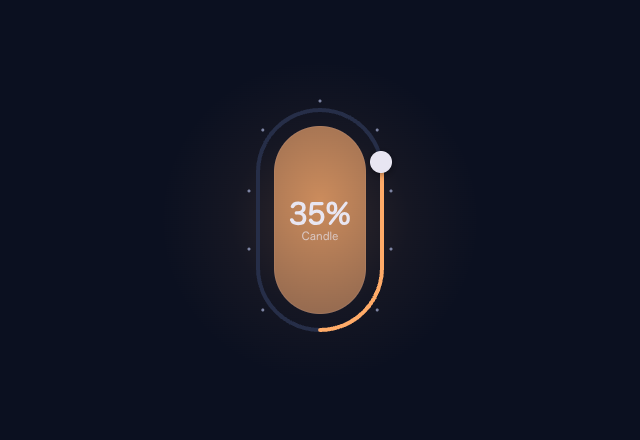
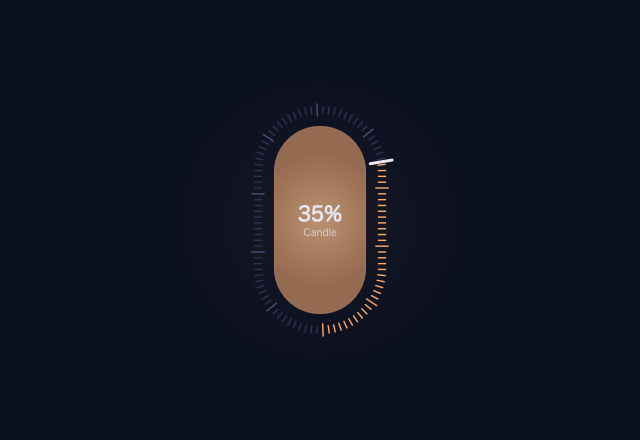
Week 04: night lamp ringed by ticks, breathing glow, smaller type, no outer dots
Claude-Session: https://claude.ai/code/session_013PaiRT9mB3em9jBr45ZJeZ

Changed region(s): [[0.375, 0.2364, 0.625, 0.7682], [0.4062, 0.65, 0.4375, 0.7091], [0.4375, 0.7091, 0.4688, 0.7386]]

diff --git a/week-04/week-04-sleep-lamp.html b/week-04/week-04-sleep-lamp.html
@@ -7,38 +7,38 @@
   <link rel="icon" href="../shared/favicon.svg" type="image/svg+xml" />
   <link rel="stylesheet" href="week-04-sleep.css?v=1" />
   <style>
-  /* Night lamp slider, continuous. A capsule lamp, and the slider is a track that wraps all the way round it.
-     Run the knob round the capsule from the bottom, up the right side, over the top and down the left:
-     the further round, the brighter the lamp, warmer when low and paler when bright. */
+  /* Night lamp slider, continuous. A capsule lamp, and the slider is a ring of fine ticks that wraps all the way round it.
+     Run the marker round the capsule from the bottom, up the right side, over the top and down the left:
+     the ticks light behind it, and the lamp breathes brighter, warmer when low and paler when high. */
   :root {
     --lamp-w: 92px; --lamp-h: 188px;          /* the capsule */
-    --gap: 16px;                              /* capsule to track */
-    --track: 4px; --knob: 22px; --knob-held: 28px;
-    --dot: 3px;
-    --glow-size: 320px;
+    --gap: 16px;                              /* capsule to the ring of ticks */
+    --ticks: 100; --tick-w: 1.4px; --tick: 7px; --tick-major: 12px;
+    --marker-w: 3px; --marker: 22px; --marker-held: 28px;
+    --glow-size: 320px; --breath: 3.6s;
     --warm-low: #ff8a3d; --warm-high: #ffe7b8;
-    --glass: #161d33;
+    --glass: #161d33; --tick-off: #2b3350; --tick-off-major: #46507a;
+    --num-size: 20px; --num-line: 24px; --mood-size: 10px;
   }
   .lamp { position: relative; width: 160px; height: 256px; }
-  .room { position: absolute; left: 50%; top: 50%; width: var(--glow-size); height: var(--glow-size); margin: calc(var(--glow-size) / -2) 0 0 calc(var(--glow-size) / -2); border-radius: 50%; pointer-events: none; }
+  .room { position: absolute; left: 50%; top: 50%; width: var(--glow-size); height: var(--glow-size); margin: calc(var(--glow-size) / -2) 0 0 calc(var(--glow-size) / -2); border-radius: 50%; pointer-events: none; animation: breathe var(--breath) ease-in-out infinite; }
   .capsule { position: absolute; left: 50%; top: 50%; width: var(--lamp-w); height: var(--lamp-h); margin: calc(var(--lamp-h) / -2) 0 0 calc(var(--lamp-w) / -2); border-radius: calc(var(--lamp-w) / 2); background: var(--glass); box-shadow: inset 0 0 0 1px var(--line); overflow: hidden; pointer-events: none; }
   .light { position: absolute; inset: 0; border-radius: inherit; }
+  /* the glow inside: a soft core that breathes, slowly swelling and settling */
+  .core { position: absolute; left: -30%; right: -30%; top: 10%; bottom: 10%; border-radius: 50%; animation: breathe var(--breath) ease-in-out infinite; }
+  @keyframes breathe { 0%, 100% { opacity: .55; transform: scale(.9); } 50% { opacity: 1; transform: scale(1.06); } }
   .read { position: absolute; inset: 0; display: grid; place-content: center; text-align: center; transition: color .25s; }
-  .read b { font: 600 var(--big-size)/var(--big-line) var(--round); font-variant-numeric: tabular-nums; transition: transform .15s; }
-  .read span { font: 500 var(--label-size)/var(--label-line) var(--round); opacity: .7; }
+  .read b { font: 600 var(--num-size)/var(--num-line) var(--round); font-variant-numeric: tabular-nums; transition: transform .15s; }
+  .read span { font: 500 var(--mood-size)/14px var(--round); opacity: .7; }
   svg.ring { position: absolute; inset: 0; width: 100%; height: 100%; overflow: visible; cursor: pointer; }
-  .ring .track { fill: none; stroke: var(--line); stroke-width: var(--track); stroke-linecap: round; }
-  .ring .fill { fill: none; stroke-width: var(--track); stroke-linecap: round; }
-  .lamp.ready .ring .fill { transition: stroke-dashoffset var(--slow) var(--ease-out); }
-  .ring .ghost { fill: none; stroke: var(--ink); stroke-width: 1.5; stroke-linecap: round; opacity: 0; transition: opacity .12s; }
+  .ring .tk { stroke: var(--tick-off); stroke-width: var(--tick-w); stroke-linecap: round; transition: stroke .1s; }
+  .ring .tk.major { stroke: var(--tick-off-major); }
+  .ring .tk.pre { stroke: #6a7398; }
+  .ring .marker { stroke: var(--ink); stroke-width: var(--marker-w); stroke-linecap: round; transition: stroke .15s; }
+  .ring .hdot { fill: var(--ink); opacity: 0; transition: opacity .12s; }
   .ring .hit { fill: none; stroke: transparent; stroke-width: 30px; pointer-events: stroke; }
-  .ring .dot { fill: var(--mute); }
-  .knob { position: absolute; width: var(--knob); height: var(--knob); margin: calc(var(--knob) / -2) 0 0 calc(var(--knob) / -2); border-radius: 50%; background: var(--ink); box-shadow: 0 2px 8px rgba(0,0,0,.45); pointer-events: none; transition: width .15s, height .15s, margin .15s, background .15s, box-shadow .15s; }
-  .peek { position: absolute; transform: translate(-50%, -50%); padding: 3px 6px; border-radius: 6px; background: var(--panel); box-shadow: inset 0 0 0 1px var(--line); font: 600 10px/1 var(--mono); color: var(--ink); opacity: 0; transition: opacity .12s; pointer-events: none; white-space: nowrap; }
-  .lamp.is-hover .ghost, .lamp.is-hover .peek { opacity: .85; }
-  .lamp.is-hover .knob { box-shadow: 0 0 0 6px rgba(232,230,242,.08), 0 2px 8px rgba(0,0,0,.45); }
-  .lamp.is-pressed .knob, .lamp.is-dragging .knob { width: var(--knob-held); height: var(--knob-held); margin: calc(var(--knob-held) / -2) 0 0 calc(var(--knob-held) / -2); background: var(--glow); box-shadow: 0 0 0 8px rgba(255,184,103,.14), 0 0 20px rgba(255,184,103,.4); }
-  .lamp.is-dragging .fill { transition: none; }
+  .lamp.is-hover .hdot { opacity: .9; }
+  .lamp.is-pressed .marker, .lamp.is-dragging .marker { stroke: var(--glow); filter: drop-shadow(0 0 4px rgba(255,184,103,.8)); }
   .lamp.is-pressed .read b, .lamp.is-dragging .read b { transform: scale(1.08); }
   </style>
 </head>
@@ -46,35 +46,31 @@
   <main class="stage">
     <section class="lamp" role="slider" tabindex="0" aria-label="Night lamp brightness">
       <div class="room"></div>
-      <div class="capsule"><div class="light"></div><div class="read"><b></b><span></span></div></div>
-      <svg class="ring" viewBox="0 0 160 256"><path class="track"/><path class="fill"/><path class="ghost"/><g class="dots"></g><path class="hit"/></svg>
-      <div class="knob"></div>
-      <span class="peek"></span>
+      <div class="capsule"><div class="light"></div><div class="core"></div><div class="read"><b></b><span></span></div></div>
+      <svg class="ring" viewBox="0 0 160 256"><path class="path" fill="none" stroke="none"/><g class="ticks"></g><line class="marker"/><circle class="hdot" r="2.4"/><path class="hit"/></svg>
     </section>
   </main>
 
   <section class="spec" aria-labelledby="spec-title">
     <h2 id="spec-title">Spec</h2>
-    <p>Read from the CSS this page runs on. Continuous, 0 to 100. The track wraps the whole capsule: it starts at the bottom, climbs the right side, crosses the top and comes down the left, so one trip round is off to full. The level and a mood word read inside the lamp, always on screen, and the lamp itself shows it too: warmer and dimmer when low, paler and brighter when high, glowing into the room.</p>
+    <p>Read from the CSS this page runs on. Continuous, 0 to 100. A ring of a hundred fine ticks wraps the whole capsule, one per percent: it starts at the bottom, climbs the right side, crosses the top and comes down the left. The ticks light in the lamp's colour up to the level, and a long marker stands at it. The level and a mood word read inside the lamp, always on screen, and the lamp shows it too, breathing a soft glow: warmer and dimmer when low, paler and brighter when high.</p>
 
-    <h3>Lamp and track</h3>
+    <h3>Lamp and ticks</h3>
     <table>
       <tr><td>Capsule</td><td data-var="--lamp-w,--lamp-h" data-join=" × " data-after=", fully round ends, 1px line ring"></td></tr>
-      <tr><td>Capsule to track</td><td data-var="--gap" data-after="; the track is a 124 × 220 stadium round it"></td></tr>
-      <tr><td>Track</td><td data-var="--track" data-after=" stroke, round caps; the filled part takes the lamp's colour"></td></tr>
+      <tr><td>Capsule to ticks</td><td data-var="--gap" data-after="; the ticks stand on a 124 × 220 stadium round it"></td></tr>
+      <tr><td>Ticks</td><td data-var="--ticks" data-after=", one per percent, square to the track"></td></tr>
+      <tr><td>Tick</td><td data-var="--tick,--tick-w" data-join=" long, " data-after=" wide, round caps; every tenth 12px"></td></tr>
+      <tr><td>Marker</td><td data-var="--marker,--marker-w" data-join=" long, " data-after=" wide; 28px while held"></td></tr>
       <tr><td>Hit area</td><td>30px along the track</td></tr>
-      <tr><td>Knob</td><td data-var="--knob" data-after=" circle"></td></tr>
-      <tr><td>Knob, held</td><td data-var="--knob-held" data-after=", warm, 8px halo"></td></tr>
-      <tr><td>Marks</td><td data-var="--dot" data-after=" dots every 10%, 9px outside the track"></td></tr>
+      <tr><td>Glow</td><td data-var="--breath" data-after=" breath: the core swells from 90% to 106% and back, opacity 55% to 100%; the room glow breathes with it"></td></tr>
       <tr><td>Room glow</td><td data-var="--glow-size" data-after=" circle; its strength follows the level"></td></tr>
-      <tr><td>Settle on tap</td><td data-var="--slow" data-after=", ease out; no lag while dragging"></td></tr>
     </table>
 
     <h3>Type</h3>
     <table>
-      <tr><td>Level</td><td data-var="--big-size,--big-line" data-after=", rounded 600, centred in the lamp"></td></tr>
-      <tr><td>Mood word</td><td data-var="--label-size,--label-line" data-after=", rounded 500 at 70%: Off, Ember, Candle, Reading, Bright"></td></tr>
-      <tr><td>Hover chip</td><td>Mono 600 10px, 3px × 6px padding, 6px corner, on the track under the pointer</td></tr>
+      <tr><td>Level</td><td data-var="--num-size,--num-line" data-after=", rounded 600, centred in the lamp"></td></tr>
+      <tr><td>Mood word</td><td data-var="--mood-size" data-after=", rounded 500 at 70%: Off, Ember, Candle, Reading, Bright"></td></tr>
     </table>
 
     <h3>Colour</h3>
@@ -82,16 +78,18 @@
       <tr><td>Lamp, off</td><td data-var="--glass" data-kind="color"></td></tr>
       <tr><td>Light, low</td><td data-var="--warm-low" data-kind="color"></td></tr>
       <tr><td>Light, high</td><td data-var="--warm-high" data-kind="color"></td></tr>
-      <tr><td>Track</td><td data-var="--line" data-kind="color"></td></tr>
+      <tr><td>Ticks, unlit</td><td data-var="--tick-off" data-kind="color"></td></tr>
+      <tr><td>Every tenth, unlit</td><td data-var="--tick-off-major" data-kind="color"></td></tr>
+      <tr><td>Ticks, lit</td><td>The lamp's own colour at that level</td></tr>
       <tr><td>Type in the lamp</td><td>Moonlight while the lamp is dim, night navy once it is bright</td></tr>
     </table>
 
     <h3>States</h3>
     <table>
-      <tr><td>Hover</td><td>A soft halo on the knob; a thin moonlight line runs along the track to the pointer and a chip there reads the level it would set. The lamp stays</td></tr>
-      <tr><td>Pressed</td><td>The knob grows to 28px and turns warm with a halo; the level grows 1.08</td></tr>
-      <tr><td>Drag</td><td>Round the capsule; the lamp, its colour, the room glow and the number follow with no lag, and the knob holds at off and full instead of wrapping</td></tr>
-      <tr><td>Tap</td><td>Sets the level at the tapped point on the track</td></tr>
+      <tr><td>Hover</td><td>A small moonlight dot stands outside the ring at the pointer, and the ticks between the marker and it brighten, a preview. The lamp stays</td></tr>
+      <tr><td>Pressed</td><td>The marker grows to 28px and turns warm with a glow; the level grows 1.08</td></tr>
+      <tr><td>Drag</td><td>Round the capsule; ticks, lamp, room glow and number follow with no lag, and the marker holds at off and full instead of wrapping</td></tr>
+      <tr><td>Tap</td><td>Sets the level at the tapped tick</td></tr>
       <tr><td>Keyboard</td><td>Arrows 5; Page Up and Down 25; Home and End off and full</td></tr>
     </table>
   </section>
@@ -102,59 +100,54 @@
   // the track: a stadium round the capsule, from the bottom centre, up the right, over the top, down the left
   const CX = 80, CY = 128, W = 124, H = 220, R = W / 2, yTop = CY - H / 2 + R, yBot = CY + H / 2 - R;
   const D = `M${CX} ${CY + H / 2} A${R} ${R} 0 0 0 ${CX + R} ${yBot} L${CX + R} ${yTop} A${R} ${R} 0 0 0 ${CX - R} ${yTop} L${CX - R} ${yBot} A${R} ${R} 0 0 0 ${CX} ${CY + H / 2}`;
-  const lamp = document.querySelector('.lamp'), svg = lamp.querySelector('svg');
-  ['track', 'fill', 'ghost', 'hit'].forEach(c => svg.querySelector('.' + c).setAttribute('d', D));
-  const path = svg.querySelector('.track'), fill = svg.querySelector('.fill'), ghost = svg.querySelector('.ghost'), L = path.getTotalLength();
-  fill.style.strokeDasharray = `${L} ${L}`;
-  // sample the track once, for drawing marks and for finding the point under the pointer
+  const lamp = document.querySelector('.lamp'), svg = lamp.querySelector('svg'), NS = 'http://www.w3.org/2000/svg';
+  ['path', 'hit'].forEach(c => svg.querySelector('.' + c).setAttribute('d', D));
+  const path = svg.querySelector('.path'), L = path.getTotalLength();
+  // sample the track once: points for finding the pointer, and the outward normal at each
   const N = 400, SAMPLES = Array.from({ length: N + 1 }, (_, i) => { const p = path.getPointAtLength(L * i / N); return [p.x, p.y]; });
-  const at = v => SAMPLES[Math.round(v / 100 * N)];
-  const dots = svg.querySelector('.dots');
-  for (let v = 10; v < 100; v += 10) {
-    // push each mark 9 units outward, square to the track
-    const [x, y] = at(v), cy = y < yTop ? yTop : y > yBot ? yBot : y, nx = x - CX, ny = y - cy, k = 9 / Math.hypot(nx, ny), ox = nx * k, oy = ny * k;
-    dots.insertAdjacentHTML('beforeend', `<circle class="dot" cx="${x + ox}" cy="${y + oy}" r="1.5"/>`);
+  const normal = (x, y) => { const cy = y < yTop ? yTop : y > yBot ? yBot : y, nx = x - CX, ny = y - cy, k = Math.hypot(nx, ny) || 1; return [nx / k, ny / k]; };
+  const at = v => SAMPLES[Math.round(Math.min(100, Math.max(0, v)) / 100 * N)];
+  const seg = (el, v, inner, outer) => { const [x, y] = at(v), [nx, ny] = normal(x, y); el.setAttribute('x1', x - nx * inner); el.setAttribute('y1', y - ny * inner); el.setAttribute('x2', x + nx * outer); el.setAttribute('y2', y + ny * outer); };
+  const TICKS = 100, ticks = [];
+  for (let i = 0; i < TICKS; i++) {
+    const t = document.createElementNS(NS, 'line'), major = i % 10 === 0, len = major ? 12 : 7;
+    seg(t, i + .5, len / 2, len / 2); t.setAttribute('class', 'tk' + (major ? ' major' : ''));
+    svg.querySelector('.ticks').append(t); ticks.push(t);
   }
+  const marker = svg.querySelector('.marker'), hdot = svg.querySelector('.hdot');
 
-  const knob = lamp.querySelector('.knob'), peek = lamp.querySelector('.peek'), room = lamp.querySelector('.room');
-  const light = lamp.querySelector('.light'), read = lamp.querySelector('.read');
+  const room = lamp.querySelector('.room'), light = lamp.querySelector('.light'), core = lamp.querySelector('.core'), read = lamp.querySelector('.read');
   const hex = h => [1, 3, 5].map(i => parseInt(h.slice(i, i + 2), 16));
   const css = getComputedStyle(document.documentElement), LOW = hex(css.getPropertyValue('--warm-low').trim()), HIGH = hex(css.getPropertyValue('--warm-high').trim());
   const mix = (a, b, f) => a.map((c, i) => Math.round(c + (b[i] - c) * f));
   const MOOD = v => v === 0 ? 'Off' : v < 25 ? 'Ember' : v < 55 ? 'Candle' : v < 85 ? 'Reading' : 'Bright';
-  const px = () => lamp.clientWidth / 160;   // svg units to pixels
 
   let v = 35, hv = null;
   function draw() {
     const f = v / 100, c = mix(LOW, HIGH, f);
-    light.style.background = `radial-gradient(120% 70% at 50% 40%, rgba(${c},${Math.min(1, .5 + f * .8)}), rgba(${c},${.3 + f * .6}))`;
-    light.style.opacity = f === 0 ? 0 : 1;
-    fill.style.stroke = `rgb(${c})`;
-    fill.style.strokeDashoffset = L * (1 - f);
-    fill.style.opacity = f === 0 ? 0 : 1;
+    light.style.background = `rgba(${c},${f === 0 ? 0 : .35 + f * .55})`;
+    core.style.background = f === 0 ? 'none' : `radial-gradient(closest-side, rgba(${mix(c, [255, 250, 240], .5)},${.5 + f * .5}), rgba(${c},0))`;
     room.style.background = `radial-gradient(closest-side, rgba(${c},${.45 * f}), rgba(${c},${.12 * f}) 55%, transparent)`;
+    ticks.forEach((t, i) => { const lit = i + .5 <= v; t.style.stroke = lit ? `rgb(${c})` : ''; t.classList.toggle('pre', !lit && hv !== null && hv > v && i + .5 <= hv); });
+    const held = lamp.classList.contains('is-pressed') || lamp.classList.contains('is-dragging'), m = held ? 14 : 11;
+    seg(marker, v, m, m);
     read.querySelector('b').textContent = Math.round(v) + '%';
     read.querySelector('span').textContent = MOOD(Math.round(v));
     read.style.color = f > .45 ? 'var(--night)' : 'var(--ink)';
-    const [x, y] = at(v); knob.style.left = x * px() + 'px'; knob.style.top = y * px() + 'px';
-    if (hv !== null) {
-      const a = Math.min(v, hv), len = Math.abs(hv - v);
-      ghost.style.strokeDasharray = `0 ${L * a / 100} ${L * len / 100} ${L}`;
-      const [gx, gy] = at(hv); peek.style.left = gx * px() + 'px'; peek.style.top = gy * px() + 'px'; peek.textContent = Math.round(hv) + '%';
-      peek.style.visibility = Math.abs(hv - v) < 5 ? 'hidden' : '';
-    }
+    if (hv !== null) { const [x, y] = at(hv), [nx, ny] = normal(x, y); hdot.setAttribute('cx', x + nx * 13); hdot.setAttribute('cy', y + ny * 13); }
     lamp.setAttribute('aria-valuenow', Math.round(v)); lamp.setAttribute('aria-valuetext', `${Math.round(v)} percent, ${MOOD(Math.round(v))}`);
   }
   const set = n => { v = Math.min(100, Math.max(0, n)); draw(); };
   // the point on the track nearest the pointer, as a value 0 to 100
+  const px = () => lamp.clientWidth / 160;
   const vAt = e => { const r = svg.getBoundingClientRect(), x = (e.clientX - r.left) / px(), y = (e.clientY - r.top) / px(); let best = 0, bd = Infinity; SAMPLES.forEach(([sx, sy], i) => { const d = (sx - x) ** 2 + (sy - y) ** 2; if (d < bd) { bd = d; best = i; } }); return best / N * 100; };
 
   let hover = false, down = false, drag = false, p0 = null, last = 0;
-  const show = () => { lamp.classList.toggle('is-hover', hover && !down); lamp.classList.toggle('is-pressed', down && !drag); lamp.classList.toggle('is-dragging', drag); };
+  const show = () => { lamp.classList.toggle('is-hover', hover && !down); lamp.classList.toggle('is-pressed', down && !drag); lamp.classList.toggle('is-dragging', drag); draw(); };
   const hit = svg.querySelector('.hit');
-  hit.addEventListener('pointerenter', e => { hover = true; hv = vAt(e); show(); draw(); });
-  hit.addEventListener('pointerleave', () => { if (down) return; hover = false; hv = null; show(); draw(); });
-  hit.addEventListener('pointerdown', e => { lamp.setPointerCapture(e.pointerId); p0 = [e.clientX, e.clientY]; down = true; drag = false; last = vAt(e); show(); });
+  hit.addEventListener('pointerenter', e => { hover = true; hv = vAt(e); show(); });
+  hit.addEventListener('pointerleave', () => { if (down) return; hover = false; hv = null; show(); });
+  hit.addEventListener('pointerdown', e => { lamp.setPointerCapture(e.pointerId); p0 = [e.clientX, e.clientY]; down = true; drag = false; last = vAt(e); hv = null; show(); });
   lamp.addEventListener('pointermove', e => {
     if (!lamp.hasPointerCapture(e.pointerId)) { if (hover) { hv = vAt(e); draw(); } return; }
     if (!drag && Math.hypot(e.clientX - p0[0], e.clientY - p0[1]) > 3) { drag = true; v = last; show(); }
@@ -163,7 +156,7 @@
     let a = vAt(e), d = a - last; if (d > 50) d -= 100; if (d < -50) d += 100; last = a;
     set(v + d);
   });
-  const release = e => { if (!down) return; if (!drag) set(vAt(e)); down = drag = false; const over = e.target === hit; hover = over; hv = over ? vAt(e) : null; show(); draw(); };
+  const release = e => { if (!down) return; if (!drag) set(vAt(e)); down = drag = false; const over = e.target === hit; hover = over; hv = over ? vAt(e) : null; show(); };
   lamp.addEventListener('pointerup', release);
   lamp.addEventListener('pointercancel', release);
   lamp.setAttribute('aria-valuemin', 0); lamp.setAttribute('aria-valuemax', 100);
@@ -172,7 +165,7 @@
     if (e.key in m) { e.preventDefault(); set(Math.round(m[e.key])); }
   });
   addEventListener('resize', draw);
-  draw(); requestAnimationFrame(() => requestAnimationFrame(() => lamp.classList.add('ready')));
+  draw();
   if (window.self === window.top && !location.search.includes('thumb')) document.querySelector('.back-pill').removeAttribute('hidden');
   </script>
   <script src="week-04-spec.js?v=3"></script>

diff --git a/week-04/week-04.html b/week-04/week-04.html
@@ -597,11 +597,11 @@
                   </figcaption>
                 </figure>
                 <figure class="proto">
-                  <iframe src="week-04-sleep-lamp.html?v=4" title="Sleep night lamp, continuous slider: a capsule lamp with the track wrapped round it" loading="lazy"></iframe>
+                  <iframe src="week-04-sleep-lamp.html?v=5" title="Sleep night lamp, continuous slider: a capsule lamp ringed by fine ticks" loading="lazy"></iframe>
                   <figcaption>
                     <b>Night lamp, continuous</b>
-                    <span>A capsule lamp with the slider wrapped all the way round it: run the knob up the right side, over the top and down the left, and the lamp brightens, warmer when low, paler when high, glowing into the room. The level reads inside the lamp.</span>
-                    <button type="button" class="viewer-open" data-src="week-04-sleep-lamp.html?v=4">View larger</button>
+                    <span>A capsule lamp ringed by a hundred fine ticks, one per percent: run the marker up the right side, over the top and down the left, and the ticks light behind it while the lamp breathes brighter, warmer when low, paler when high. The level reads inside the lamp.</span>
+                    <button type="button" class="viewer-open" data-src="week-04-sleep-lamp.html?v=5">View larger</button>
                   </figcaption>
                 </figure>
                 <figure class="proto">
